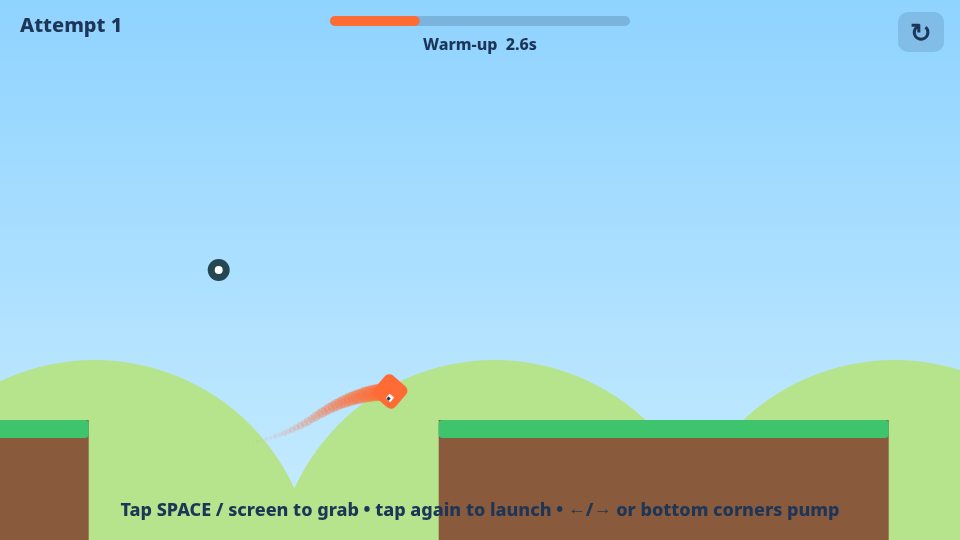
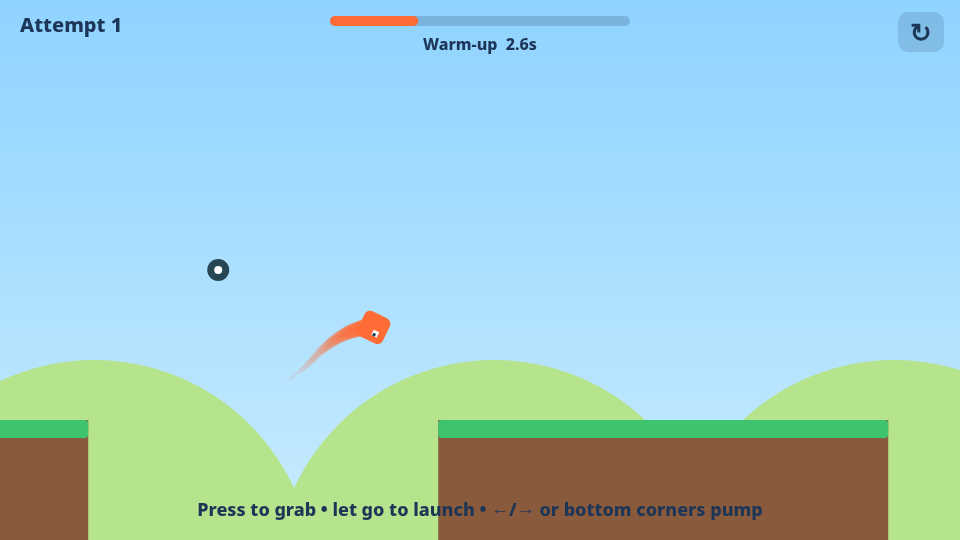
Press to grab, let go to launch (hold-while-falling catches); corner pump zones never grab

Changed region(s): [[0.125, 0.9185, 0.875, 0.9778], [0.2812, 0.6815, 0.4375, 0.8], [0.3125, 0.563, 0.4062, 0.6815]]

diff --git a/test/physics.js b/test/physics.js
@@ -5,30 +5,28 @@ const S=require('../sim.js');const assert=require('assert');let n=0;const ok=(c,
  for(let i=0;i<1200;i++){p.th+=0;const a=-(S.G/p.len)*Math.sin(p.th);p.w+=a*S.DT;p.th+=p.w*S.DT;p.y=270+p.len*Math.cos(p.th);mx=Math.max(mx,Math.abs(E()-E0)/E0);}
  ok(mx<0.03,`energy drift over 10s pendulum ${(mx*100).toFixed(2)}% < 3%`);}
 // attach within radius, not beyond
-{const s=S.create(0);s.p.mode='air';s.p.x=830-100;s.p.y=270+100;s.p.vx=300;s.p.vy=0;S.step(s,{tap:true,dir:0});ok(s.p.mode==='swing'&&s.p.hook===0,'grab attaches within radius');
+{const s=S.create(0);s.p.mode='air';s.p.x=830-100;s.p.y=270+100;s.p.vx=300;s.p.vy=0;S.step(s,{grab:true,dir:0});ok(s.p.mode==='swing'&&s.p.hook===0,'grab attaches within radius');
  ok(Math.abs(s.p.len-Math.hypot(100,100))<6,'rope length = distance at grab');}
-{const s=S.create(0);s.p.mode='air';s.p.x=830-300;s.p.y=270+200;s.p.vx=0;s.p.vy=0;for(let i=0;i<30;i++)S.step(s,{tap:i===0,dir:0});ok(s.p.mode!=='swing','no grab outside radius');}
+{const s=S.create(0);s.p.mode='air';s.p.x=830-300;s.p.y=270+200;s.p.vx=0;s.p.vy=0;S.step(s,{grab:true,dir:0});ok(s.p.mode!=='swing','no grab outside radius');}
 // release tangential velocity
-{const s=S.create(0);s.p.mode='air';s.p.x=830-100;s.p.y=370;s.p.vx=300;s.p.vy=0;S.step(s,{tap:true,dir:0});for(let i=0;i<20;i++)S.step(s,{tap:false,dir:0});
- const p=s.p,th=p.th,w=p.w,L=p.len;S.step(s,{tap:true,dir:0});const ex=L*w*Math.cos(th),ey=-L*w*Math.sin(th);
+{const s=S.create(0);s.p.mode='air';s.p.x=830-100;s.p.y=370;s.p.vx=300;s.p.vy=0;S.step(s,{grab:true,dir:0});for(let i=0;i<20;i++)S.step(s,{grab:true,dir:0});
+ const p=s.p,th=p.th,w=p.w,L=p.len;S.step(s,{grab:false,dir:0});const ex=L*w*Math.cos(th),ey=-L*w*Math.sin(th);
  ok(s.p.mode==='air'&&Math.abs(s.p.vx-ex)<1&&Math.abs(s.p.vy-(ey+S.G*S.DT))<1,`release launches tangentially v=(${s.p.vx.toFixed(0)},${s.p.vy.toFixed(0)})`);
  const r=[s.p.x-830,s.p.y-270];ok(Math.abs(r[0]*s.p.vx+r[1]*(s.p.vy-S.G*S.DT))/Math.hypot(...r)/Math.hypot(s.p.vx,s.p.vy)<0.05,'launch velocity perpendicular to rope');}
 // pumping increases amplitude
-{const run=d=>{const s=S.create(0);s.p.mode='air';s.p.x=830-60;s.p.y=270+150;s.p.vx=0;s.p.vy=0;S.attach(s,0);let m=0;for(let i=0;i<600;i++){S.step(s,{tap:false,dir:d*Math.sign(s.p.w||1)});m=Math.max(m,Math.abs(s.p.th));}return m;};
+{const run=d=>{const s=S.create(0);s.p.mode='air';s.p.x=830-60;s.p.y=270+150;s.p.vx=0;s.p.vy=0;S.attach(s,0);let m=0;for(let i=0;i<600;i++){S.step(s,{grab:true,dir:d*Math.sign(s.p.w||1)});m=Math.max(m,Math.abs(s.p.th));}return m;};
  const a=run(0),b=run(1);ok(b>a*1.3,`pumping raises swing amplitude ${a.toFixed(2)}→${b.toFixed(2)} rad`);}
 // death in pit, restart
-{const s=S.create(0);let i=0;while(!s.dead&&i<2000){S.step(s,{tap:false,dir:0});i++;}ok(s.dead,'running into first pit kills the player');const r=S.create(0);ok(!r.dead&&r.p.x===60&&r.t===0,'restart gives fresh state');}
+{const s=S.create(0);let i=0;while(!s.dead&&i<2000){S.step(s,{grab:false,dir:0});i++;}ok(s.dead,'running into first pit kills the player');const r=S.create(0);ok(!r.dead&&r.p.x===60&&r.t===0,'restart gives fresh state');}
 // spike death
-{const s=S.create(0);s.p.x=2200;s.p.y=420-14;S.step(s,{tap:false,dir:0});let i=0;while(!s.dead&&i<200){S.step(s,{tap:false,dir:0});i++;}ok(s.dead&&s.p.x<2260,'spikes kill');}
+{const s=S.create(0);s.p.x=2200;s.p.y=420-14;S.step(s,{grab:false,dir:0});let i=0;while(!s.dead&&i<200){S.step(s,{grab:false,dir:0});i++;}ok(s.dead&&s.p.x<2260,'spikes kill');}
 // solver: both levels completable
-{const {solve,A,CH,act}=require('./solve.js');const sol={};for(let li=0;li<S.LEVELS.length;li++){const q=solve(li);ok(!!q,`level ${li+1} completable by search bot`);
- const s=S.create(li);let k=0;while(!s.done&&!s.dead&&k<q.length*CH+10){S.step(s,act(A[q[Math.floor(k/CH)]]||A[0],k%CH));k++;}ok(s.done,`level ${li+1} replay of solution reaches flag (${s.t.toFixed(1)}s)`);
- const hooksUsed=new Set();const s2=S.create(li);k=0;while(!s2.done&&!s2.dead){S.step(s2,act(A[q[Math.floor(k/CH)]]||A[0],k%CH));if(s2.p.mode==='swing')hooksUsed.add(s2.p.hook);k++;}console.log('   hooks used:',[...hooksUsed].join(','));sol[li]=q;}
+{const {solve,A,CH}=require('./solve.js');const sol={};for(let li=0;li<S.LEVELS.length;li++){const q=solve(li);ok(!!q,`level ${li+1} completable by search bot`);
+ const s=S.create(li);let k=0;while(!s.done&&!s.dead&&k<q.length*CH+10){S.step(s,A[q[Math.floor(k/CH)]]||A[0]);k++;}ok(s.done,`level ${li+1} replay of solution reaches flag (${s.t.toFixed(1)}s)`);
+ const hooksUsed=new Set();const s2=S.create(li);k=0;while(!s2.done&&!s2.dead){S.step(s2,A[q[Math.floor(k/CH)]]||A[0]);if(s2.p.mode==='swing')hooksUsed.add(s2.p.hook);k++;}console.log('   hooks used:',[...hooksUsed].join(','));sol[li]=q;}
  require('fs').writeFileSync(__dirname+'/solutions.json',JSON.stringify(sol));}
-// buffer: early tap still catches; stale tap does not
-{const s=S.create(0);s.p.mode='air';s.p.x=830-200;s.p.y=360;s.p.vx=330;s.p.vy=0;S.step(s,{tap:true,dir:0});const first=s.p.mode;let k=0;while(s.p.mode!=='swing'&&k<18){S.step(s,{tap:false,dir:0});k++;}
- ok(first!=='swing'&&s.p.mode==='swing','early tap (out of reach) is buffered and grabs within 150ms');}
-{const s=S.create(0);s.p.mode='air';s.p.x=830-300;s.p.y=370;s.p.vx=330;s.p.vy=0;S.step(s,{tap:true,dir:0});for(let i=0;i<40;i++)S.step(s,{tap:false,dir:0});ok(s.p.mode!=='swing','tap older than buffer does not grab later');}
-{const s=S.create(0);s.p.mode='air';s.p.x=730;s.p.y=370;s.p.vx=300;s.p.vy=0;S.step(s,{tap:true,dir:0});for(let i=0;i<30;i++)S.step(s,{tap:false,dir:0});ok(s.p.mode==='swing','swing persists without holding');}
-{const s=S.create(0);while(s.p.x<700)S.step(s,{tap:false,dir:0});S.step(s,{tap:true,dir:0});for(let i=0;i<30;i++)S.step(s,{tap:false,dir:0});ok(s.p.mode==='swing','tap while running on ground grabs and keeps swinging');}
+{const s=S.create(0);s.p.mode='air';s.p.x=830-260;s.p.y=360;s.p.vx=330;s.p.vy=0;S.step(s,{grab:true,dir:0});const f=s.p.mode;let k=0;while(s.p.mode!=='swing'&&k<60){S.step(s,{grab:true,dir:0});k++;}ok(f!=='swing'&&s.p.mode==='swing','early press held while falling catches point when it comes in reach');}
+{const s=S.create(0);s.p.mode='air';s.p.x=830-260;s.p.y=360;s.p.vx=330;s.p.vy=0;S.step(s,{grab:true,dir:0});for(let i=0;i<60;i++)S.step(s,{grab:false,dir:0});ok(s.p.mode!=='swing','early press then let go does not grab');}
+{const s=S.create(0);while(s.p.x<700)S.step(s,{grab:false,dir:0});S.step(s,{grab:true,dir:0});for(let i=0;i<30;i++)S.step(s,{grab:true,dir:0});ok(s.p.mode==='swing','press while running grabs; holding keeps swinging (ground clearance)');S.step(s,{grab:false,dir:0});ok(s.p.mode==='air','letting go launches');}
+{const s=S.create(0);s.p.mode='air';s.p.x=300;s.p.y=300;s.p.vx=330;s.p.vy=0;S.step(s,{grab:false,dir:0});ok(s.p.mode==='air','letting go while not attached does nothing');}
 console.log(n,'checks passed');

diff --git a/main.js b/main.js
@@ -6,7 +6,7 @@ addEventListener('resize',resize);resize();
 const C={sky:'#8fd3ff',sky2:'#c8ecff',ground:'#3ec46d',dirt:'#8a5a3c',spike:'#ff4d6d',plat:'#ffb703',hook:'#264653',rope:'#264653',player:'#ff6b35',hi:'#ffd60a',flag:'#e63946',text:'#1d3557'};
 let screen='title',li=0,s=null,attempts=1,camX=0,parts=[],trail=[],best={},sel=0,deathT=0,bot=null,botI=0;
 const keys={};const inPump=p=>p.y>VH*0.6&&(p.x<VW*0.25||p.x>VW*0.75);
-const inp={tap:false,dir:0};let tapQ=false,touchDir=0;
+const inp={grab:false,dir:0};let tapQ=false,touchDir=0,touchGrab=0;
 let ac=null;function blip(f,d,type){try{ac=ac||new AudioContext();const o=ac.createOscillator(),g=ac.createGain();o.type=type||'square';o.frequency.value=f;g.gain.value=.06;g.gain.exponentialRampToValueAtTime(.001,ac.currentTime+d);o.connect(g).connect(ac.destination);o.start();o.stop(ac.currentTime+d);}catch(e){}}
 function start(i){bot=null;tapQ=false;li=i;s=S.create(i);screen='play';camX=0;parts=[];trail=[];}
 function restart(){attempts++;start(li);}
@@ -26,14 +26,15 @@ function onDown(pt){if(screen!=='play'){let hit=null;const P=18;for(const b of m
   if(hit){if(hit.i!=='start')sel=hit.i;}else if(screen!=='title')return;
   if(screen==='title'){attempts=1;start(sel);}else menuAct();return;}
  if(pt.x>VW-70&&pt.y<60){restart();return;}if(!inPump(pt))tapQ=true;}
-cv.addEventListener('pointerdown',e=>{e.preventDefault();onDown(tpos(e));ptrs[e.pointerId]=tpos(e);updDir();});
-cv.addEventListener('pointermove',e=>{if(ptrs[e.pointerId]){ptrs[e.pointerId]=tpos(e);updDir();}});
+const isG=pt=>screen==='play'&&!inPump(pt)&&!(pt.x>VW-70&&pt.y<60);
+cv.addEventListener('pointerdown',e=>{e.preventDefault();try{cv.setPointerCapture(e.pointerId)}catch(_){}const pt=tpos(e);pt.g=isG(pt);onDown(pt);ptrs[e.pointerId]=pt;updDir();});
+cv.addEventListener('pointermove',e=>{if(ptrs[e.pointerId]){const pt=tpos(e);pt.g=ptrs[e.pointerId].g;ptrs[e.pointerId]=pt;updDir();}});
 const ptrs={};
-if(!window.PointerEvent){cv.addEventListener('touchstart',e=>{e.preventDefault();for(const t of e.changedTouches){onDown(tpos(t));ptrs[t.identifier]=tpos(t);}updDir();},{passive:false});
+if(!window.PointerEvent){cv.addEventListener('touchstart',e=>{e.preventDefault();for(const t of e.changedTouches){const pt=tpos(t);pt.g=isG(pt);onDown(pt);ptrs[t.identifier]=pt;}updDir();},{passive:false});
  const te=e=>{for(const t of e.changedTouches)delete ptrs[t.identifier];updDir();};cv.addEventListener('touchend',te);cv.addEventListener('touchcancel',te);
  cv.addEventListener('mousedown',e=>{onDown(tpos(e));});addEventListener('mouseup',()=>{});}function up(e){delete ptrs[e.pointerId];updDir();}
 cv.addEventListener('pointerup',up);cv.addEventListener('pointercancel',up);
-function updDir(){touchDir=0;for(const k in ptrs){const p=ptrs[k];if(inPump(p))touchDir=p.x<VW/2?-1:1;}}
+function updDir(){touchDir=0;touchGrab=0;for(const k in ptrs){const p=ptrs[k];if(inPump(p))touchDir=p.x<VW/2?-1:1;else if(p.g)touchGrab++;}}
 // test hooks
 const q=new URLSearchParams(location.search);
 window.__swing={boxes:()=>menuBoxes,start,get state(){return s},get screen(){return screen},playBot(i,seq,A,CH){attempts=1;start(i);bot={seq,A,CH};botI=0;},tap(){tapQ=true;},setScreen(x){screen=x}};
@@ -41,8 +42,8 @@ let acc=0,last=performance.now();
 function tick(now){try{tickInner(now);}catch(e){console.error(e);requestAnimationFrame(tick);}}
 function tickInner(now){let dt=Math.min(.05,(now-last)/1000);last=now;if(screen==='play'){acc+=dt;
  while(acc>=S.DT){acc-=S.DT;
-  if(bot){const a=bot.A[bot.seq[Math.floor(botI/bot.CH)]]||{tap:false,dir:0};inp.tap=a.tap&&botI%bot.CH===0;botI++;inp.dir=a.dir;}
-  else{inp.tap=tapQ;tapQ=false;inp.dir=(keys.ArrowRight||keys.KeyD?1:0)-(keys.ArrowLeft||keys.KeyA?1:0)||touchDir;}
+  if(bot){const a=bot.A[bot.seq[Math.floor(botI/bot.CH)]]||{grab:false,dir:0};inp.grab=a.grab;botI++;inp.dir=a.dir;}
+  else{inp.grab=!!(tapQ||keys.Space||keys.ArrowUp||keys.KeyW||touchGrab);tapQ=false;inp.dir=(keys.ArrowRight||keys.KeyD?1:0)-(keys.ArrowLeft||keys.KeyA?1:0)||touchDir;}
   if(s.dead){deathT-=S.DT;if(deathT<=0&&!bot)restart();else if(deathT<=0){bot=null;}continue;}
   if(s.done)break;
   S.step(s,inp);
@@ -83,7 +84,7 @@ function drawWorld(){const L=S.LEVELS[li],p=s.p;const target=p.x-VW*0.35;camX+=(
  const prog=Math.min(1,Math.max(0,p.x/L.finish));rr(VW/2-150,16,300,10,5,'rgba(29,53,87,.2)');rr(VW/2-150,16,300*prog,10,5,C.player);
  txt(`Attempt ${attempts}`,20,32,20,C.text,'left');txt(`${L.name}  ${s.t.toFixed(1)}s`,VW/2,50,16);
  rr(VW-62,12,46,40,10,'rgba(29,53,87,.15)');txt('↻',VW-39,42,26);
- if(li===0&&s.t<6&&attempts<3)txt('Tap SPACE / screen to grab • tap again to launch • ←/→ or bottom corners pump',VW/2,VH-24,18);}
+ if(li===0&&s.t<6&&attempts<3)txt('Press to grab • let go to launch • ←/→ or bottom corners pump',VW/2,VH-24,18);}
 function button(x,y,w,h,label,i,on,ring){if(ring)rr(x-5,y-5,w+10,h+10,18,C.player);rr(x,y,w,h,14,on?C.player:'#fff');txt(label,x+w/2,y+h/2+8,22,on?'#fff':C.text);menuBoxes.push({x,y,w,h,i});}
 function draw(){cx.setTransform(1,0,0,1,0,0);cx.fillStyle=C.sky;cx.fillRect(0,0,cv.width,cv.height);cx.setTransform(scale,0,0,scale,ox,oy);
  cx.save();cx.beginPath();cx.rect(0,0,VW,VH);cx.clip();const gr=cx.createLinearGradient(0,0,0,VH);gr.addColorStop(0,C.sky);gr.addColorStop(1,C.sky2);cx.fillStyle=gr;cx.fillRect(0,0,VW,VH);
@@ -91,7 +92,7 @@ function draw(){cx.setTransform(1,0,0,1,0,0);cx.fillStyle=C.sky;cx.fillRect(0,0,
  if(screen==='title'){txt('SWING',VW/2,170,96,C.player);txt('grab • swing • release',VW/2,215,22);
   button(VW/2-180,245,360,100,`▶  START  (${S.LEVELS[sel].name})`,'start',true);
   S.LEVELS.forEach((L,i)=>button(VW/2-230+i*240,365,220,64,`${i+1}. ${L.name}`+(best[i]?`  ${best[i].toFixed(1)}s`:''),i,false,sel===i));
-  txt('Tap SPACE/↑/W or screen = grab   •   tap again = launch   •   ←/→, A/D or bottom corners = pump   •   R = restart',VW/2,490,15);}
+  txt('Press SPACE/↑/W or screen to grab   •   let go to launch   •   ←/→, A/D or bottom corners = pump   •   R = restart',VW/2,490,15);}
  else{drawWorld();if(screen==='done'){cx.fillStyle='rgba(255,255,255,.75)';cx.fillRect(0,0,VW,VH);txt('Level complete!',VW/2,170,56,C.player);
   txt(`Time ${doneT.toFixed(2)}s   •   Attempts ${attempts}`,VW/2,225,24);
   const hasNext=li+1<S.LEVELS.length;button(VW/2-330,280,200,70,hasNext?'Next level':'—',0,sel===0);button(VW/2-100,280,200,70,'Replay',1,sel===1);button(VW/2+130,280,200,70,'Menu',2,sel===2);}}

diff --git a/test/browser.js b/test/browser.js
@@ -11,14 +11,16 @@ for(const li of [0,1]){await p.evaluate((li,seq,A,CH)=>window.__swing.playBot(li
 // death + restart via real keys
 await p.evaluate(()=>window.__swing.start(0));await new Promise(r=>setTimeout(r,4000));
 const st=await p.evaluate(()=>({x:window.__swing.state.p.x,t:window.__swing.state.t}));console.log(st.x<700&&st.t<2?'PASS died in pit and auto-restarted':'FAIL restart',JSON.stringify(st));
-await p.waitForFunction(()=>window.__swing.state.p.x>690,{timeout:5000});await p.keyboard.press('Space');const m=await p.waitForFunction(()=>window.__swing.state.p.mode==='swing',{timeout:4000}).then(()=>'swing',()=>'no swing');await new Promise(r=>setTimeout(r,300));console.log('mode after Space tap:',m);await p.screenshot({path:root+'/shots/level1-grab.png'});await new Promise(r=>setTimeout(r,600));console.log('still swinging after key up (no hold needed):',await p.evaluate(()=>window.__swing.state.p.mode));
-await p.keyboard.press('Space');await new Promise(r=>setTimeout(r,30));console.log('after 2nd tap:',await p.evaluate(()=>window.__swing.state.p.mode));
-// touch: tap center grabs, corner does not toggle
-const c=await p.target().createCDPSession();const T=async(x,y)=>{await c.send('Input.dispatchTouchEvent',{type:'touchStart',touchPoints:[{x,y}]});await c.send('Input.dispatchTouchEvent',{type:'touchEnd',touchPoints:[]});};
+const M=()=>p.evaluate(()=>window.__swing.state.p.mode),W=ms=>new Promise(r=>setTimeout(r,ms));
 await p.evaluate(()=>window.__swing.start(0));await p.waitForFunction(()=>window.__swing.state.p.x>690,{timeout:5000});
-await T(900,500);await new Promise(r=>setTimeout(r,250));console.log('corner tap mode (expect not swing):',await p.evaluate(()=>window.__swing.state.p.mode+' '+(window.__swing.state.dead?'dead':'')));
+await p.keyboard.down('Space');await W(40);console.log('Space down ->',await M());await W(500);console.log('Space still held ->',await M());
+await p.keyboard.up('Space');await W(30);console.log('Space up ->',await M());
+// hold while falling catches
+await p.evaluate(()=>window.__swing.start(0));await p.waitForFunction(()=>window.__swing.state.p.x>560,{timeout:5000});
+await p.keyboard.down('Space');await W(20);const early=await M();await p.waitForFunction(()=>window.__swing.state.p.mode==='swing',{timeout:2000}).catch(()=>{});console.log('early press held: before',early,'-> later',await M());await p.keyboard.up('Space');
+const c=await p.target().createCDPSession();const TS=(x,y)=>c.send('Input.dispatchTouchEvent',{type:'touchStart',touchPoints:[{x,y}]}),TE=()=>c.send('Input.dispatchTouchEvent',{type:'touchEnd',touchPoints:[]});
 await p.evaluate(()=>window.__swing.start(0));await p.waitForFunction(()=>window.__swing.state.p.x>690,{timeout:5000});
-await T(480,200);await new Promise(r=>setTimeout(r,40));console.log('touch tap 1:',await p.evaluate(()=>window.__swing.state.p.mode));await new Promise(r=>setTimeout(r,300));
-await c.send('Input.dispatchTouchEvent',{type:'touchStart',touchPoints:[{x:900,y:500}]});await new Promise(r=>setTimeout(r,300));console.log('corner pump while swinging keeps swing:',await p.evaluate(()=>window.__swing.state.p.mode));await c.send('Input.dispatchTouchEvent',{type:'touchEnd',touchPoints:[]});
-await T(480,200);await new Promise(r=>setTimeout(r,40));console.log('touch tap 2:',await p.evaluate(()=>window.__swing.state.p.mode));
+await TS(900,500);await W(250);console.log('corner hold (expect not swing):',await M());await TE();
+await p.evaluate(()=>window.__swing.start(0));await p.waitForFunction(()=>window.__swing.state.p.x>690,{timeout:5000});
+await TS(480,200);await W(40);console.log('touch down ->',await M());await W(400);console.log('touch held ->',await M());await TE();await W(30);console.log('touch up ->',await M());
 console.log(errs.length?'CONSOLE ERRORS: '+errs.join('|'):'PASS no console errors');await b.close();srv.close();})();

diff --git a/test/solve.js b/test/solve.js
@@ -1,13 +1,12 @@
 const S=require('../sim.js');const clone=o=>structuredClone(o);
-const A=[{tap:false,dir:0},{tap:true,dir:0},{tap:false,dir:1},{tap:false,dir:-1}],CH=8;
-const act=(a,k)=>({tap:a.tap&&k===0,dir:a.dir});
+const A=[{grab:false,dir:0},{grab:true,dir:1},{grab:true,dir:-1},{grab:true,dir:0}],CH=8;
 function solve(li){let beam=[{s:S.create(li),seq:[]}];
  for(let d=0;d<400;d++){const nx=[];
-  for(const b of beam)for(let a=0;a<4;a++){const s=clone(b.s);for(let k=0;k<CH;k++)S.step(s,act(A[a],k));
+  for(const b of beam)for(let a=0;a<4;a++){const s=clone(b.s);for(let k=0;k<CH;k++)S.step(s,A[a]);
    if(s.dead)continue;const seq=b.seq.concat(a);if(s.done)return seq;nx.push({s,seq,sc:s.p.x+Math.random()*30});}
   if(!nx.length){console.log("stuck depth",d,"bestx",Math.round(Math.max(...beam.map(b=>b.s.p.x))));return null;}nx.sort((a,b)=>b.sc-a.sc);beam=[];const seen=new Set();
-  for(const n of nx){const key=[n.s.p.mode,n.s.p.hook,Math.round(n.s.p.x/12),Math.round(n.s.p.y/12),Math.round(n.s.p.w*4),n.s.buf>0,Math.round(n.s.p.vy/60)].join();if(seen.has(key))continue;seen.add(key);beam.push(n);if(beam.length>=500)break;}}
+  for(const n of nx){const key=[n.s.p.mode,n.s.p.hook,Math.round(n.s.p.x/12),Math.round(n.s.p.y/12),Math.round(n.s.p.w*4),Math.round(n.s.p.vy/60)].join();if(seen.has(key))continue;seen.add(key);beam.push(n);if(beam.length>=500)break;}}
 console.log("depth out bestx",Math.round(Math.max(...beam.map(b=>b.s.p.x)))); return null;}
-module.exports={solve,A,CH,act};
+module.exports={solve,A,CH};
 if(require.main===module){const out={};for(let i=0;i<S.LEVELS.length;i++){const q=solve(i);console.log('level',i+1,q?'SOLVED in '+(q.length*CH/120).toFixed(1)+'s':'UNSOLVED');out[i]=q;}
 require('fs').writeFileSync(__dirname+'/solutions.json',JSON.stringify(out));}

diff --git a/sim.js b/sim.js
@@ -25,9 +25,9 @@ function attach(s,i){const p=s.p,q=hookPos(LEVELS[s.li].hooks[i],s.t),dx=p.x-q.x
  p.w=(p.vx*tx+p.vy*ty)/p.len;p.mode='swing';p.hook=i;}
 function release(s){const p=s.p;p.vx=p.len*p.w*Math.cos(p.th);p.vy=-p.len*p.w*Math.sin(p.th);p.mode='air';s.last=p.hook;p.hook=-1;}
 function step(s,inp){if(s.dead||s.done)return s;const L=LEVELS[s.li],p=s.p,ev=[];const t0=s.t;s.t+=DT;
- // toggle: a tap releases if swinging, otherwise requests a grab (buffered BUF seconds)
- if(inp.tap){if(p.mode==='swing'){release(s);ev.push('release');s.buf=0;}else s.buf=BUF;}
- if(p.mode!=='swing'&&s.buf>0){const i=nearest(s);if(i>=0){attach(s,i);ev.push('grab');s.buf=0;}else s.buf-=DT;}
+ // hold to grab: while held and not attached, catch the first reachable point; letting go launches
+ if(p.mode==='swing'&&!inp.grab){release(s);ev.push('release');}
+ if(p.mode!=='swing'&&inp.grab){const i=nearest(s);if(i>=0){attach(s,i);ev.push('grab');}}
  const py=p.y;
  if(p.mode==='swing'){const q=hookPos(L.hooks[p.hook],s.t);let a=-(G/p.len)*Math.sin(p.th);
   if(inp.dir&&Math.sign(inp.dir)===Math.sign(p.w||inp.dir))a+=PUMP*inp.dir;
